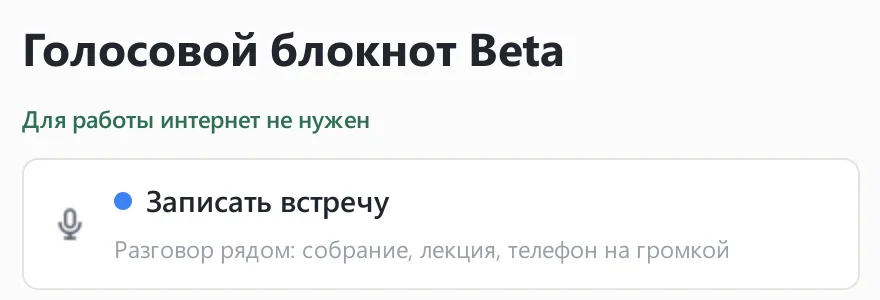
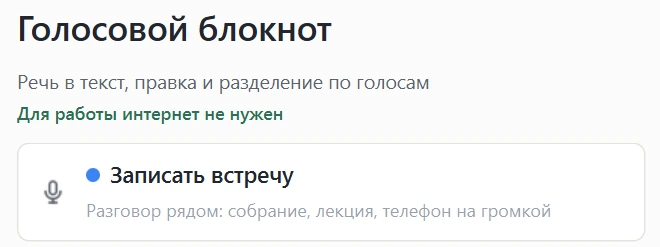
Страница — черновик

diff --git a/index.html b/index.html
@@ -26,7 +26,7 @@
   <div class="obertka">
     <a class="logo" href="#">
       <img src="img/znachok.webp" width="38" height="38" alt="">
-      <span>Голосовой блокнот</span>
+      <span class="logo-imya">Голосовой блокнот<small>Речь в текст, правка и разделение по голосам</small></span>
     </a>
     <nav class="menyu" aria-label="Разделы">
       <a href="#vozmozhnosti">Возможности</a>
@@ -45,16 +45,16 @@
   <div class="obertka">
     <span class="metka">Без облака</span>
     <h1>Ваши разговоры остаются у вас. <span class="akcent stroka">Текст&nbsp;— готов сам.</span></h1>
-    <p class="podzag">«Голосовой блокнот» превращает речь в текст прямо на вашем компьютере.
+    <p class="podzag">«Голосовой блокнот»&nbsp;— речь в текст, правка и разделение по голосам прямо на вашем компьютере.
       Распознавание работает без интернета&nbsp;— ни звук, ни текст никуда не уходят.</p>
 
     <div class="deystviya">
       <a class="knopka bolshaya" data-skachat
-         href="https://github.com/golosovoybloknot/voicenotes-models/releases/download/beta-1.26.6-1fe3907/VoiceNotes_Beta_Setup_1.26.6_1fe3907.exe">
+         href="https://github.com/golosovoybloknot/voicenotes-models/releases/download/beta-1.26.7-c6743a8/GolosovoyBloknot_Setup_1.26.7_c6743a8.exe">
         <svg width="22" height="22" viewBox="0 0 24 24" fill="none" stroke="currentColor" stroke-width="2.4" stroke-linecap="round" stroke-linejoin="round" aria-hidden="true"><path d="M12 3v12m0 0-5-5m5 5 5-5M4 20h16"/></svg>
         Скачать бесплатно
       </a>
-      <span class="melko">Для Windows 10 и 11 · <span data-versiya>версия 1.26.6 · 252 МБ</span><br>
+      <span class="melko">Для Windows 10 и 11 · <span data-versiya>версия 1.26.7 · 252 МБ</span><br>
         14&nbsp;дней всё работает бесплатно, без регистрации</span>
     </div>
     <p class="ne-win">Программа&nbsp;— для компьютера с Windows. Откройте эту страницу на компьютере, чтобы скачать.
@@ -69,9 +69,9 @@
     <div class="snimok">
       <a href="img/glavnaya.webp" target="_blank" rel="noopener">
         <picture>
-          <source media="(max-width: 640px)" srcset="img/glavnaya-m.webp" width="880" height="300">
-          <img src="img/glavnaya.webp" width="1730" height="450"
-               alt="Главное окно программы: надпись «Для работы интернет не нужен» и кнопки «Записать встречу», «Записать созвон», «Расшифровать файл», «Новая заметка»">
+          <source media="(max-width: 640px)" srcset="img/glavnaya-m.webp" width="660" height="247">
+          <img src="img/glavnaya.webp" width="1297" height="361"
+               alt="Главное окно программы: под названием «Речь в текст, правка и разделение по голосам» и «Для работы интернет не нужен», кнопки «Записать встречу», «Записать созвон», «Расшифровать файл», «Новая заметка»">
         </picture>
       </a>
     </div>

diff --git a/stil.css b/stil.css
@@ -57,6 +57,9 @@ p { margin: 0 0 1em; }
 .shapka .obertka { display: flex; align-items: center; gap: 24px; height: 64px; }
 .logo { display: flex; align-items: center; gap: 10px; text-decoration: none; color: var(--tekst); font-weight: 800; font-size: 19px; white-space: nowrap; }
 .logo svg { flex: none; }
+/* Что программа делает — строкой под названием (21.11, набросок). */
+.logo-imya { display: flex; flex-direction: column; line-height: 1.15; }
+.logo-imya small { font-size: 12.5px; font-weight: 500; color: var(--tekst-2); margin-top: 2px; }
 .menyu { display: flex; gap: 22px; margin-left: auto; }
 .menyu a { color: var(--tekst-2); text-decoration: none; font-size: 16px; font-weight: 600; }
 .menyu a:hover { color: var(--cvet); }
@@ -65,6 +68,11 @@ p { margin: 0 0 1em; }
 @media (max-width: 860px) {
   .menyu { display: none; }
   .shapka .knopka { margin-left: auto; }
+}
+/* На узком экране строка в шапке не помещается — там она есть первой
+   строкой под заголовком. */
+@media (max-width: 640px) {
+  .logo-imya small { display: none; }
 }
 @media (max-width: 380px) {
   .logo span { font-size: 17px; }
